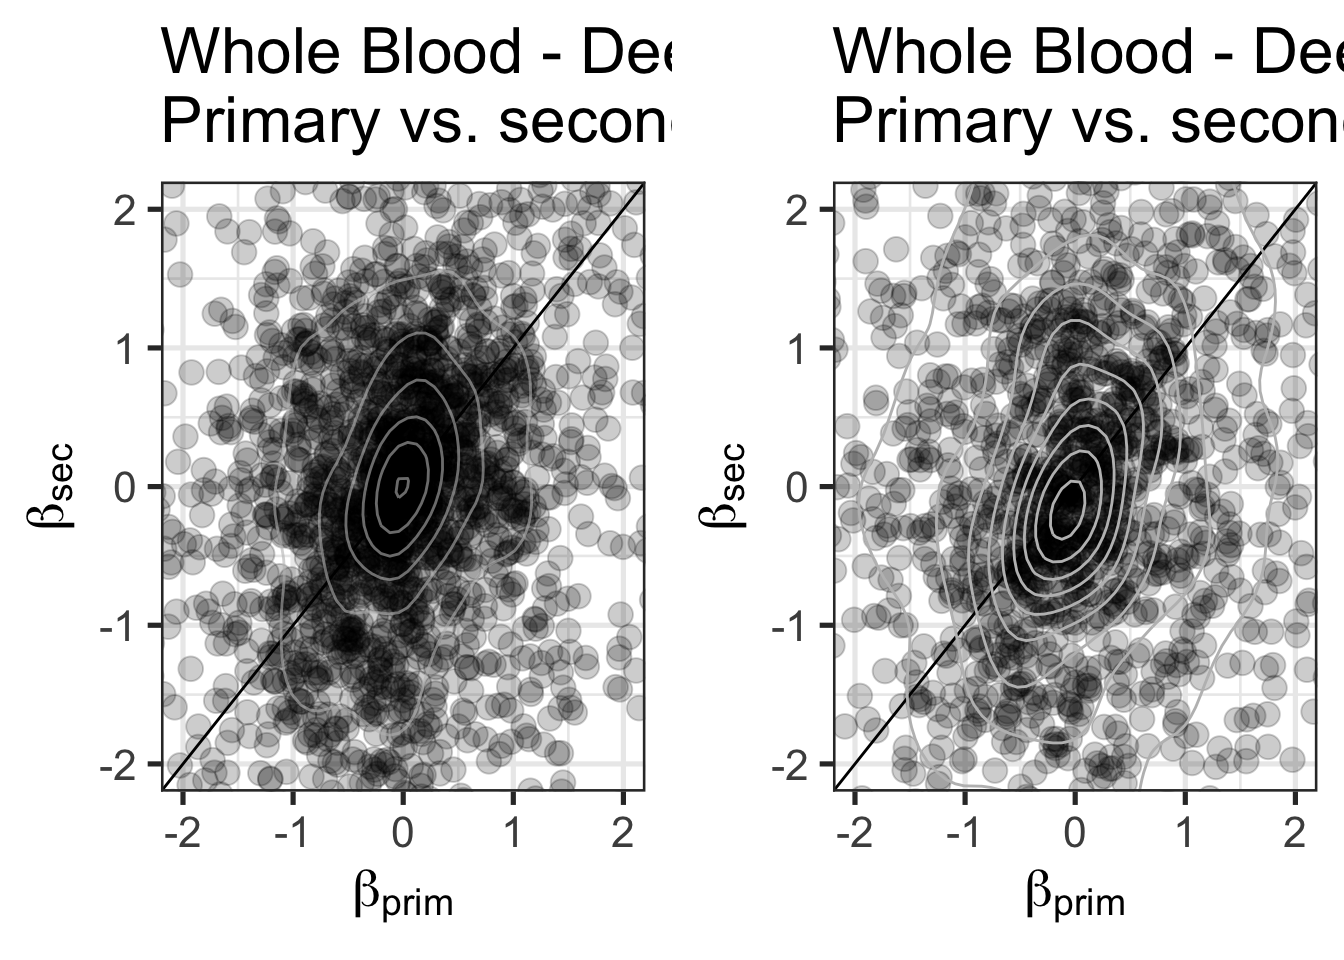
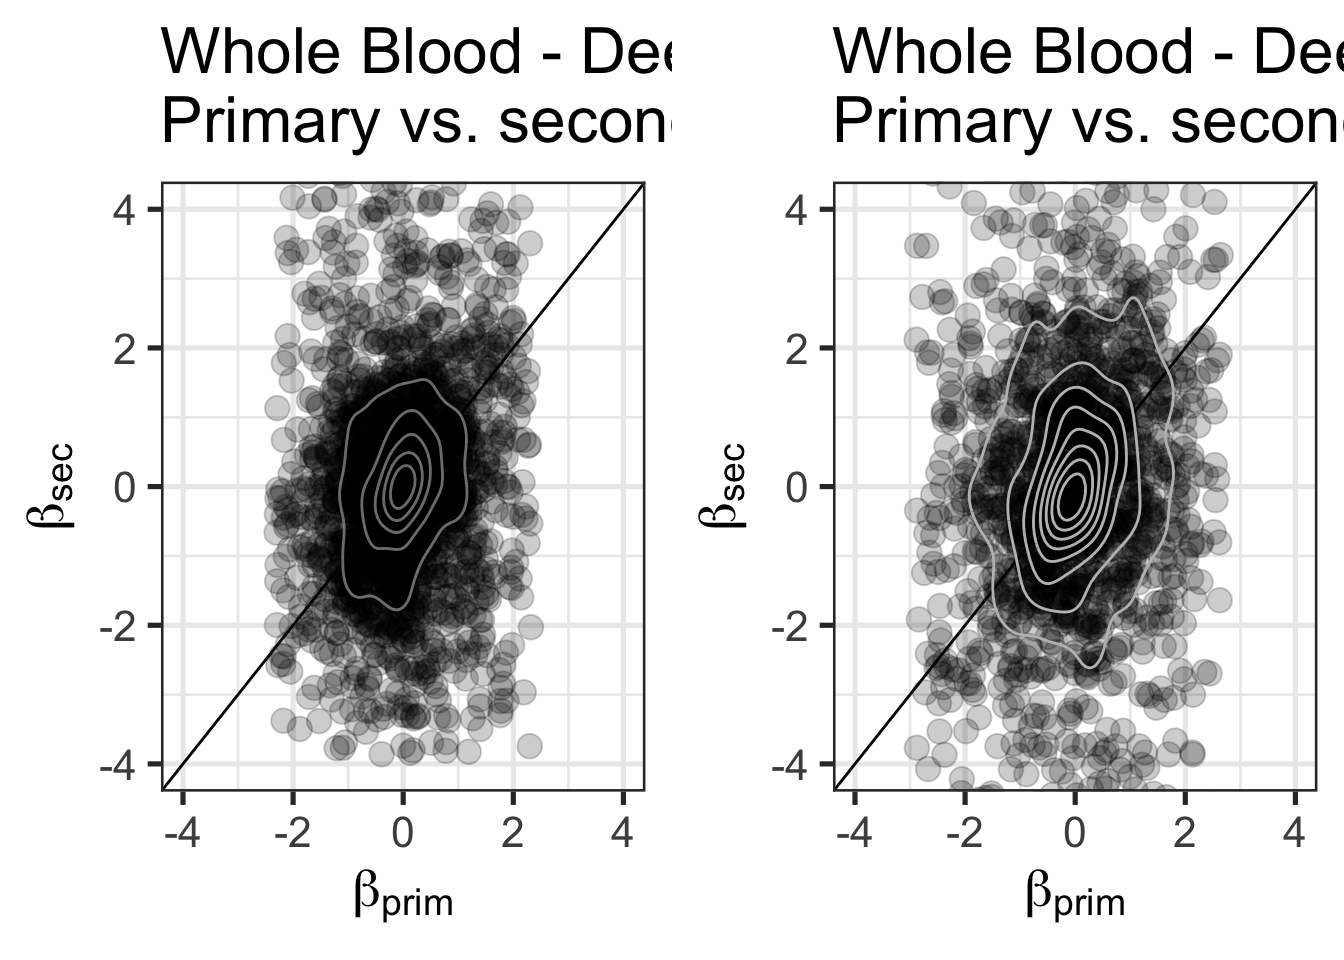
Build site.

diff --git a/docs/pvs_analysis.html b/docs/pvs_analysis.html
@@ -542,10 +542,10 @@ environment
 <div class="panel panel-default">
 <div class="panel-heading">
 <p class="panel-title">
-<a data-toggle="collapse" data-parent="#workflowr-checks" href="#strongRepositoryversionstrongahrefhttpsgithubcomzjiang2betaprimvssecanalysistree7d2727eade9a42a6140fb8eb182afac1d4804e3atargetblank7d2727ea"> <span class="glyphicon glyphicon-ok text-success" aria-hidden="true"></span> <strong>Repository version:</strong> <a href="https://github.com/zjiang2/beta_prim_vs_sec_analysis/tree/7d2727eade9a42a6140fb8eb182afac1d4804e3a" target="_blank">7d2727e</a> </a>
+<a data-toggle="collapse" data-parent="#workflowr-checks" href="#strongRepositoryversionstrongahrefhttpsgithubcomzjiang2betaprimvssecanalysistree4d1f68286586cfdf18de951e06ca78428598610etargetblank4d1f682a"> <span class="glyphicon glyphicon-ok text-success" aria-hidden="true"></span> <strong>Repository version:</strong> <a href="https://github.com/zjiang2/beta_prim_vs_sec_analysis/tree/4d1f68286586cfdf18de951e06ca78428598610e" target="_blank">4d1f682</a> </a>
 </p>
 </div>
[2 lines of base64/hex data omitted]
 <div class="panel-body">
 <p>
 Great! You are using Git for version control. Tracking code development and connecting the code version to the results is critical for reproducibility. The version displayed above was the version of the Git repository at the time these results were generated. <br><br> Note that you need to be careful to ensure that all relevant files for the analysis have been committed to Git prior to generating the results (you can use <code>wflow_publish</code> or <code>wflow_git_commit</code>). workflowr only checks the R Markdown file, but you know if there are other scripts or data files that it depends on. Below is the status of the Git repository when the results were generated:
@@ -593,6 +593,40 @@ Message
 </tr>
 </thead>
 <tbody>
+<tr>
+<td>
+Rmd
+</td>
+<td>
+<a href="https://github.com/zjiang2/beta_prim_vs_sec_analysis/blob/4d1f68286586cfdf18de951e06ca78428598610e/analysis/pvs_analysis.Rmd" target="_blank">4d1f682</a>
+</td>
+<td>
+zjiang2
+</td>
+<td>
+2019-08-07
+</td>
+<td>
+patch
+</td>
+</tr>
+<tr>
+<td>
+html
+</td>
+<td>
+<a href="https://rawcdn.githack.com/zjiang2/beta_prim_vs_sec_analysis/4dcd3ff4dfdf5fbfe59e3dcfc451f6646cac362c/docs/pvs_analysis.html" target="_blank">4dcd3ff</a>
+</td>
+<td>
+zjiang2
+</td>
+<td>
+2019-08-07
+</td>
+<td>
+Build site.
+</td>
+</tr>
 <tr>
 <td>
 html
@@ -1034,8 +1068,8 @@ zjiang2
 </div>
 </div>
 <p>An interesting observation is that the variance of <span class="math inline">\(\beta_{sec}\)</span> is higher than that of <span class="math inline">\(\beta_{prim}\)</span>. This is obvious if you zoom out of both of the above graphs:</p>
-<pre class="r"><code>pp1 &lt;- pp1 + xlim(c(-4,4)) + ylim(c(-4,4))
-pp2 &lt;- pp2 + xlim(c(-4,4)) + ylim(c(-4,4))
+<pre class="r"><code>pp1 &lt;- pp1 + coord_cartesian(xlim=c(-4,4), ylim=c(-4,4))
+pp2 &lt;- pp2 + coord_cartesian(xlim=c(-4,4), ylim=c(-4,4))
 grid.arrange(pp1,pp2,nrow=1)</code></pre>
 <p><img src="figure/pvs_analysis.Rmd/unnamed-chunk-3-1.png" width="672" style="display: block; margin: auto;" /></p>
 <p>
